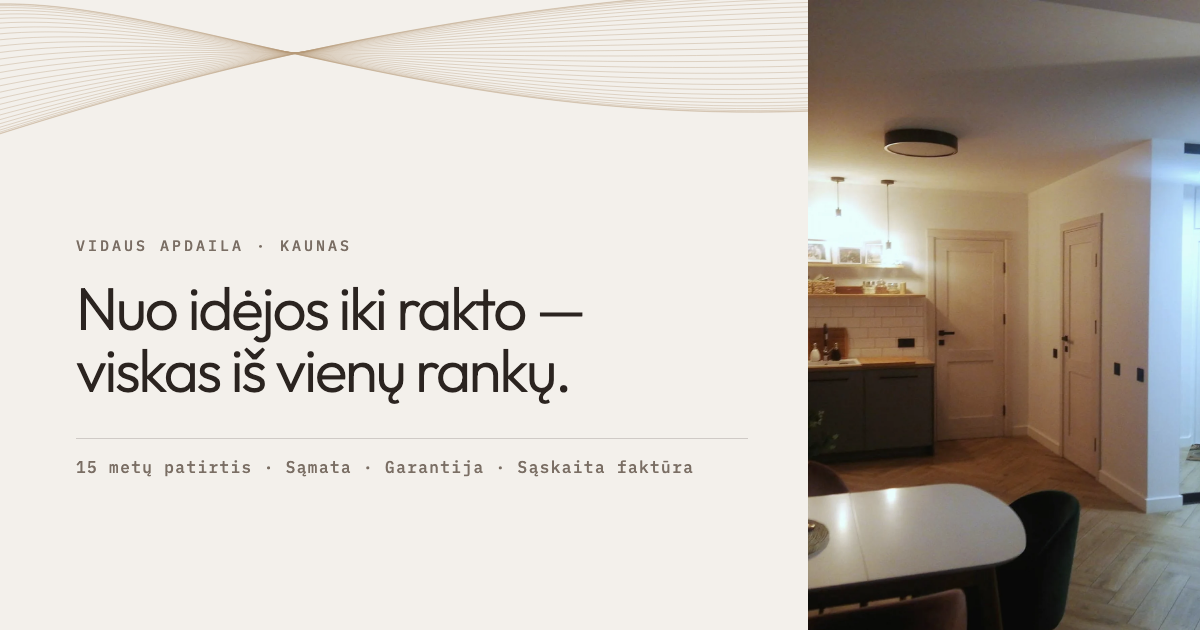
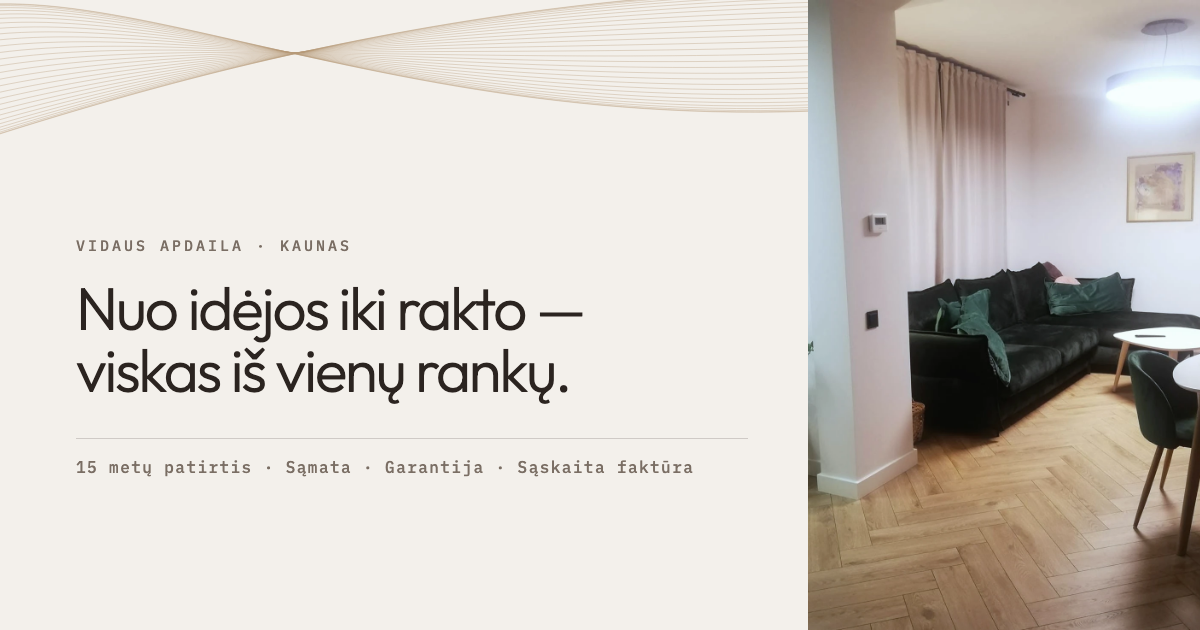
Hero: swap in the living-room shot; new photo for stage 06
The old hero doubled as the stage-06 plate. Stage 06 now carries the
grey kitchen from the same flat, so nothing repeats on the page.

diff --git a/index.html b/index.html
@@ -73,7 +73,7 @@
         </div>
       </div>
       <figure class="hero__plate">
-        <img src="img/hero.webp" width="1400" height="1867" alt="Įrengtas butas Kaune — virtuvė ir valgomasis su eglutės rašto grindimis" fetchpriority="high" decoding="sync">
+        <img src="img/hero.webp" width="1280" height="1474" alt="Įrengtas butas Kaune — svetainė su eglutės rašto ąžuolo grindimis" fetchpriority="high" decoding="sync">
       </figure>
     </div>
     <div class="wrap">
@@ -179,7 +179,7 @@
             </ul>
           </li>
           <li class="step reveal" data-step="6">
-            <img class="step__img" src="img/st-6.webp" width="1200" height="900" alt="Įrengtas svetainės ir valgomojo interjeras" loading="lazy">
+            <img class="step__img" src="img/st-6.webp" width="1200" height="900" alt="Įrengta virtuvė su valgomuoju — perduota užsakovui" loading="lazy">
             <div class="step__head">
               <span class="step__n">06</span>
               <h3 class="h3">Perdavimas</h3>
